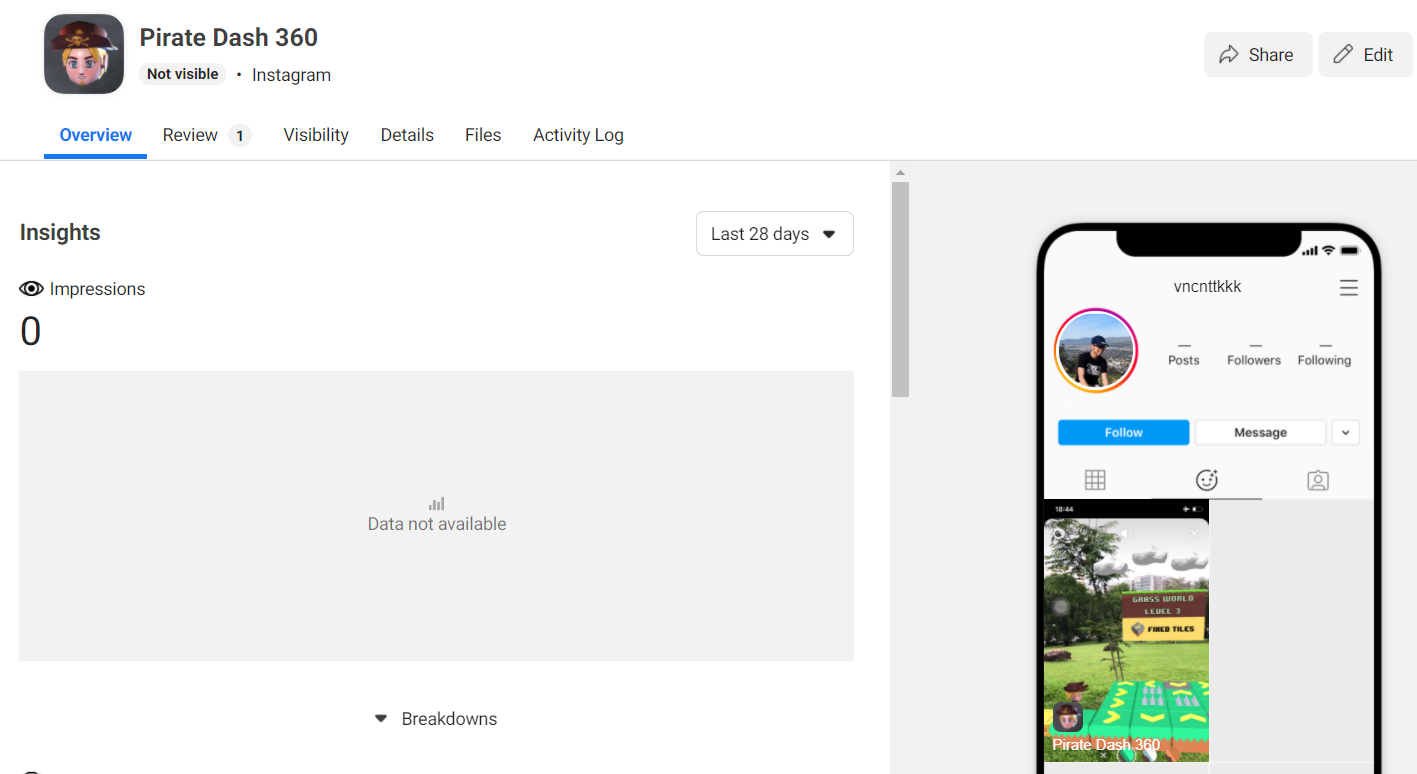
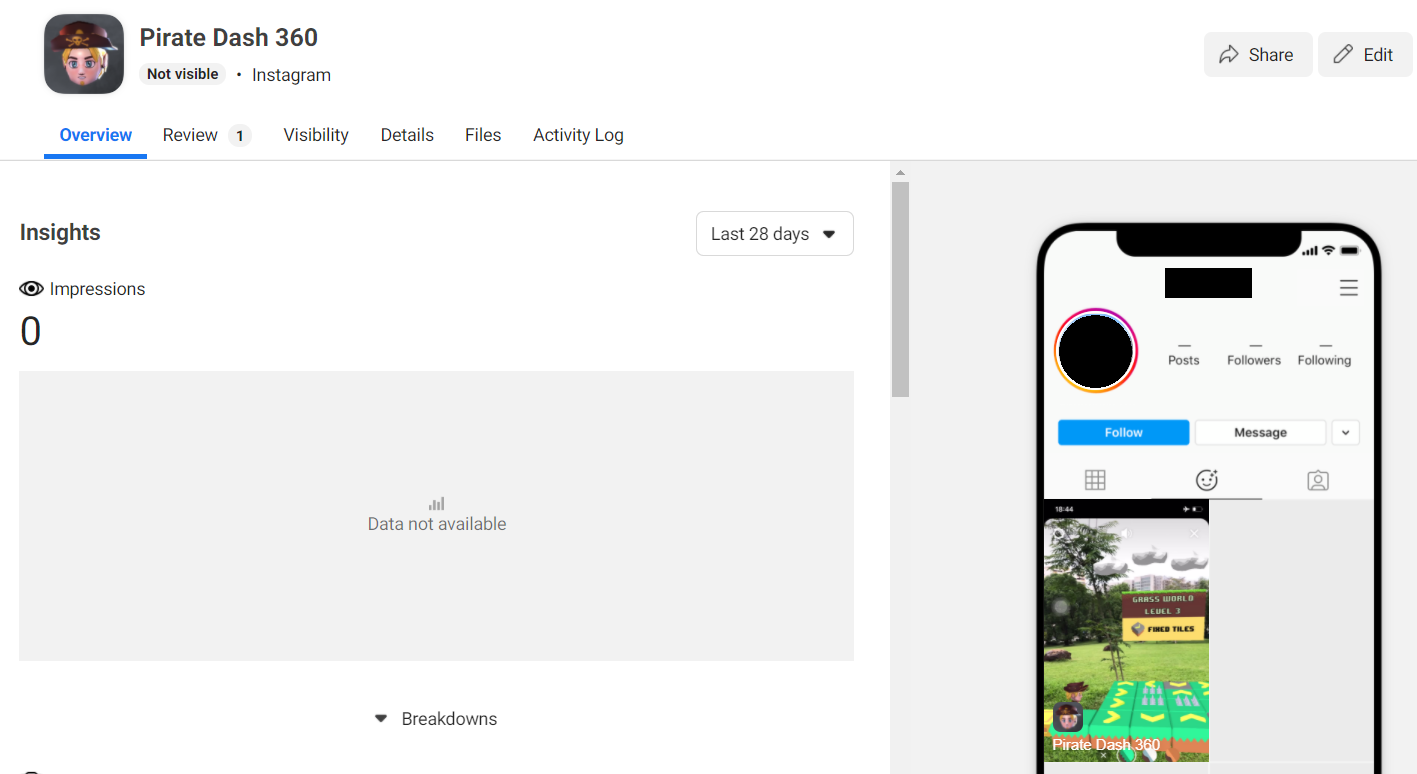
Updated readme and replaced imgs

Changed region(s): [[0.8073, 0.3411, 0.9005, 0.4031], [0.7452, 0.4031, 0.8073, 0.4961]]

diff --git a/readme.md b/readme.md
@@ -46,7 +46,7 @@ Basic JavaScript knowledge is recommended for this tutorial as it is required fo
 ### **2.3. Getting Started**
 <p align="center"><img src="img/2c.png" width="40%"/></p>
 
-To get started, download this repository by selecting **Download ZIP** and save it to a familiar location. Open the **starter** folder.
+To get started, download this repository by selecting **Download ZIP** and save it to a familiar location.
 
 ### **2.4. Directory Structure**
 ```js
@@ -73,13 +73,13 @@ First, we need to import the relevant assets into Spark AR Studio.
 
 1. Open Spark AR Studio.
    
-2. On the left navigation pane, click **Open** and open `/starter/starter.arproj` to open the project.
+2. On the left navigation pane, click **Open** and select `/starter/starter.arproj` to open the project.
    
 3. From here you can view the Scene environment that we will be working with. Proceed to import the pirate object:
    
-4. Click **+Add Asset** on the bottom left of the side navigation drawer, followed by **Import From Computer....** Select file `/starter/objects/pirate/scene.gltf` to import the Pirate asset.
+4. Click **+Add Asset** on the bottom left of the side navigation drawer, followed by **Import From Computer....** Select `/starter/objects/pirate/scene.gltf` to import the Pirate asset.
    
-5. Repeat Step 3 for `/treasure-chest/chest-anim.fbx`, `/tile/blockHalf.fbx` and `/directions/scene.gltf` under `/starter/objects` to import tiles, directions and treasure assets. You should see the following:
+5. Repeat Step 3 for `/treasure-chest/chest-anim.fbx`, `/tile/blockHalf.fbx` and `/directions/scene.gltf` under `/starter/objects` to import tiles, directions and treasure assets respectively. You should see the following:
 
 <p align="center"><img src="img/assets_file_structure.jpg" width="30%"/></p>
 
@@ -233,15 +233,15 @@ Since we are building a platformer game, the coordinates of each tile has to be 
 
 ![](img/empty_grid.png)
 
-In this devised grid system, the **column indexes are the x axis in SparkAR and row indices are z axis in SparkAR**. This is aligned with the SparkAR dimensions where x is the width and z is the depth from the user’s perspective. Each box represents the **space needed for a single tile (unit length)**.
+In this devised grid system, the **column indexes are the x axis in Spark AR and row indices are z axis in Spark AR**. This is aligned with the Spark AR dimensions where x is the width and z is the depth from the user’s perspective. Each box represents the **space needed for a single tile (unit length)**.
 
 > *From our experiments, we have concluded that all game tiles should only be placed in the white/yellow boxes. Any tile placed within [x: 7, z: 7] to [x: 14, z: 14] would be at the user’s blind spot (too near to the user), and would only be visible if the player moves away from his/her original position.*
 
-In the SparkAR environment, we will need a reference point for our grid, so let’s use the top-left corner i.e. [x: 1, y: 1]. The exact coordinates for the reference point based on our experiments is **[x: -0.463, y: -0.8, z: -0.52]**. We have also pre-determined that the **unit length is 0.15**, after including a small padding between tiles.
+In the Spark AR environment, we will need a reference point for our grid, so let’s use the top-left corner i.e. [x: 1, y: 1]. The exact coordinates for the reference point based on our experiments is **[x: -0.463, y: -0.8, z: -0.52]**. We have also pre-determined that the **unit length is 0.15**, after including a small padding between tiles.
 
-With the reference point and unit length, we can render a tile at any of the boxes in the grid simply by using the grid indexes. For example, if I want to place a tile at [x: 10, z: 5] on the grid, I can calculate the exact coordinates in SparkAR by **multiplying the grid index with our unit length**, and then **adding the reference point coordinate**.
+With the reference point and unit length, we can render a tile at any of the boxes in the grid simply by using the grid indexes. For example, if I want to place a tile at [x: 10, z: 5] on the grid, I can calculate the exact coordinates in Spark AR by **multiplying the grid index with our unit length**, and then **adding the reference point coordinate**.
 
-Hence, the exact coordinates in SparkAR for a tile at [x: 10, z: 5] on our grid would be [x: 10 * 0.15 + (-0.463), z: 5 * 0.15 + (-0.52)].
+Hence, the exact coordinates in Spark AR for a tile at [x: 10, z: 5] on our grid would be [x: 10 * 0.15 + (-0.463), z: 5 * 0.15 + (-0.52)].
 
 </details>
 
@@ -352,7 +352,7 @@ Let’s try to understand the above code. Here, we are exporting an array of obj
 - `tile_patterns`: Every other tile besides start and end tile
 - `tile_positions_to_randomize`: Grid indexes to render random tile patterns at
 
-Essentially, the purpose of `levels.js` is to easily declare the structure of a level in our grid system so that we can render the SparkAR objects in `script.js`.
+Essentially, the purpose of `levels.js` is to easily declare the structure of a level in our grid system so that we can render the Spark AR objects in `script.js`.
 
 </details>
 
@@ -395,7 +395,7 @@ let start_tile = level.start_tile;
 let end_tile = level.end_tile;
 ```
 
-To render a tile in place, we first need to retrieve the respective SparkAR tile object. We will write a function to retrieve the SparkAR tile object based on the tile name provided in our `level.js`:
+To render a tile in place, we first need to retrieve the respective Spark AR tile object. We will write a function to retrieve the Spark AR tile object based on the tile name provided in our `level.js`:
 
 ```js
 async function getTileUI(name) {
@@ -404,7 +404,7 @@ async function getTileUI(name) {
 }
 ```
 
-Next, we will need a function to convert our grid system indexes into X and Z coordinates in SparkAR. The formula can be found at previous section [Positioning Tiles using Grid System](#a-positioning-tiles-using-grid-system).
+Next, we will need a function to convert our grid system indexes into X and Z coordinates in Spark AR. The formula can be found at previous section [Positioning Tiles using Grid System](#a-positioning-tiles-using-grid-system).
 
 ```js
 function getCoordinateXFromIndex(index) {
@@ -416,11 +416,11 @@ function getCoordinateZFromIndex(index) {
 }
 ```
 
-Now that we are able to retrieve the respective SparkAR tile object as well as compute its respective X and Z coordinates based on our grid system, we can write our function for placing tiles. This function takes in the `tile_pattern` JavaScript object as well as its grid `position`, retrieves its respective SparkAR object name, and places it in the specified location.
+Now that we are able to retrieve the respective Spark AR tile object as well as compute its respective X and Z coordinates based on our grid system, we can write our function for placing tiles. This function takes in the `tile_pattern` JavaScript object as well as its grid `position`, retrieves its respective Spark AR object name, and places it in the specified location.
 
 ```js
 async function placeTile(tile_pattern, position) {
-    // Place tile in SparkAR
+    // Place tile in Spark AR
     const tile_UI = await getTileUI(tile_pattern.name);
     tile_UI.transform.x = getCoordinateXFromIndex(position[0]);
     tile_UI.transform.y = top_left_y;
@@ -436,7 +436,7 @@ placeTile(start_tile, start_tile.position);
 placeTile(end_tile, end_tile.position);
 ```
 
-Go back to your SparkAR Studio, and click on **Restart** to reload the filter. You should see the following:
+Go back to your Spark AR Studio, and click on **Restart** to reload the filter. You should see the following:
 
 ![](img/rendering_start_end_tile.png)
 
@@ -462,7 +462,7 @@ tile_patterns.forEach(tile_pattern => {
 })
 ```
 
-Click on **Restart** in SparkAR Studio and you should see the entire level being rendered this time. Restart the filter a few more times, and you should notice that the tiles are being placed randomly.
+Click on **Restart** in Spark AR Studio and you should see the entire level being rendered this time. Restart the filter a few more times, and you should notice that the tiles are being placed randomly.
 
 ![](img/render_random_tiles.png)
 
@@ -477,7 +477,7 @@ function getMidPointFromIndex(position) {
 }
 ```
 
-Now, we simply identify the pirate object in the SparkAR environment and position it accordingly.
+Now, we simply identify the pirate object in the Spark AR environment and position it accordingly.
 
 ```js
 // Place character on start tile
@@ -558,7 +558,7 @@ function animateTileSelect(tile, animation) {
 }
 ```
 
-To trigger the animation, we will need a **subscriber** to an `onTap` event for each tile. We will need to access the SparkAR object for this, so let’s modify the previous code we have written. When we iterate over the tiles for rendering, we will retrieve the respective SparkAR tile object and add a **tap event subscriber**. When a tile is selected, it elevates its position and changes from “blur” to “active” state. Conversely, when a selected tile is selected again, it changes from “active” back to “blur” state and returns to its original position.
+To trigger the animation, we will need a **subscriber** to an `onTap` event for each tile. We will need to access the Spark AR object for this, so let’s modify the previous code we have written. When we iterate over the tiles for rendering, we will retrieve the respective Spark AR tile object and add a **tap event subscriber**. When a tile is selected, it elevates its position and changes from “blur” to “active” state. Conversely, when a selected tile is selected again, it changes from “active” back to “blur” state and returns to its original position.
 
 ```js
 // Place each tile in a random position
@@ -626,7 +626,7 @@ async function placeTile(tile_pattern, position) {
     position_tiles[position] = tile_pattern;
     tiles_position[tile_pattern.name] = position;
  
-    // Place tile in SparkAR
+    // Place tile in Spark AR
     const tile_UI = await getTileUI(tile_pattern.name);
     tile_UI.transform.x = getCoordinateXFromIndex(position[0]);
     tile_UI.transform.y = top_left_y;
@@ -1128,13 +1128,13 @@ Once you are ready, you may publish the filter!
 
 <details><summary>Show Instructions</summary>
 
-1. Click on **Upload and Export** on the leftmost panel.
+1. On Spark AR Studio, click on **Upload and Export** on the leftmost panel.
 
 <p align="center"><img src="img/7_1.png" width="50%"/></p>
 
 2. The file size will be calculated and if it meets the requirement for Facebook (2 MB) and Instagram (4 MB), a green tick stating that it is Ready to Submit will appear. Click on **Export** to export the filter. Save the file on your local PC.
 
-3. Once the file is saved, prepare a demo video (maximum 32 MB) that will help a user understand how the filter can be used. The video can be recorded when you start the preview on Spark AR Studio. Some tips on how to prepare the demo video can be found [here](https://sparkar.facebook.com/ar-studio/learn/publishing/demo-videos-for-instagram-effects/#demo-video-recommendations).
+3. Once the file is saved, prepare a demo video (maximum 32 MB) that will help users to understand how the filter can be used. The video can be recorded when you start the preview on Spark AR Studio. Some tips on how to prepare the demo video can be found [here](https://sparkar.facebook.com/ar-studio/learn/publishing/demo-videos-for-instagram-effects/#demo-video-recommendations).
 
 4. Also, prepare a mini icon that represents the filter (minimum 200 x 200 pixels).
 
@@ -1185,7 +1185,7 @@ The skills that you have picked up through our tutorial can be used to develop y
 ### **9.4. Creating the Augmented Environment**
 - [Scripting Basics](https://sparkar.facebook.com/ar-studio/learn/scripting/scripting-basics#creating-a-script)
 
-- [SparkAR API/Modules Documentation](https://sparkar.facebook.com/ar-studio/learn/reference/scripting/summary)
+- [Spark AR API/Modules Documentation](https://sparkar.facebook.com/ar-studio/learn/reference/scripting/summary)
 
 ### **9.5. Animating the Pirate**
 
